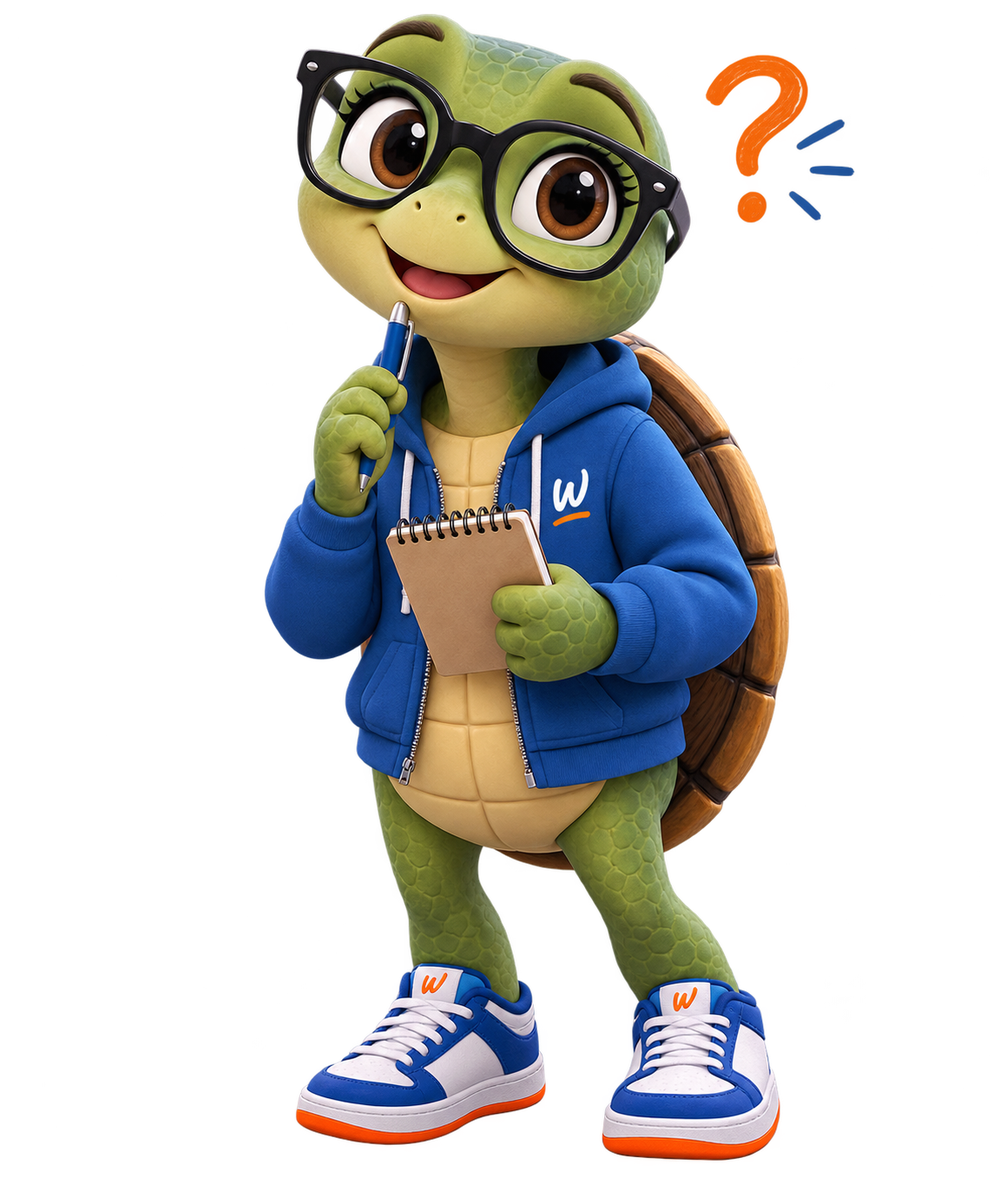
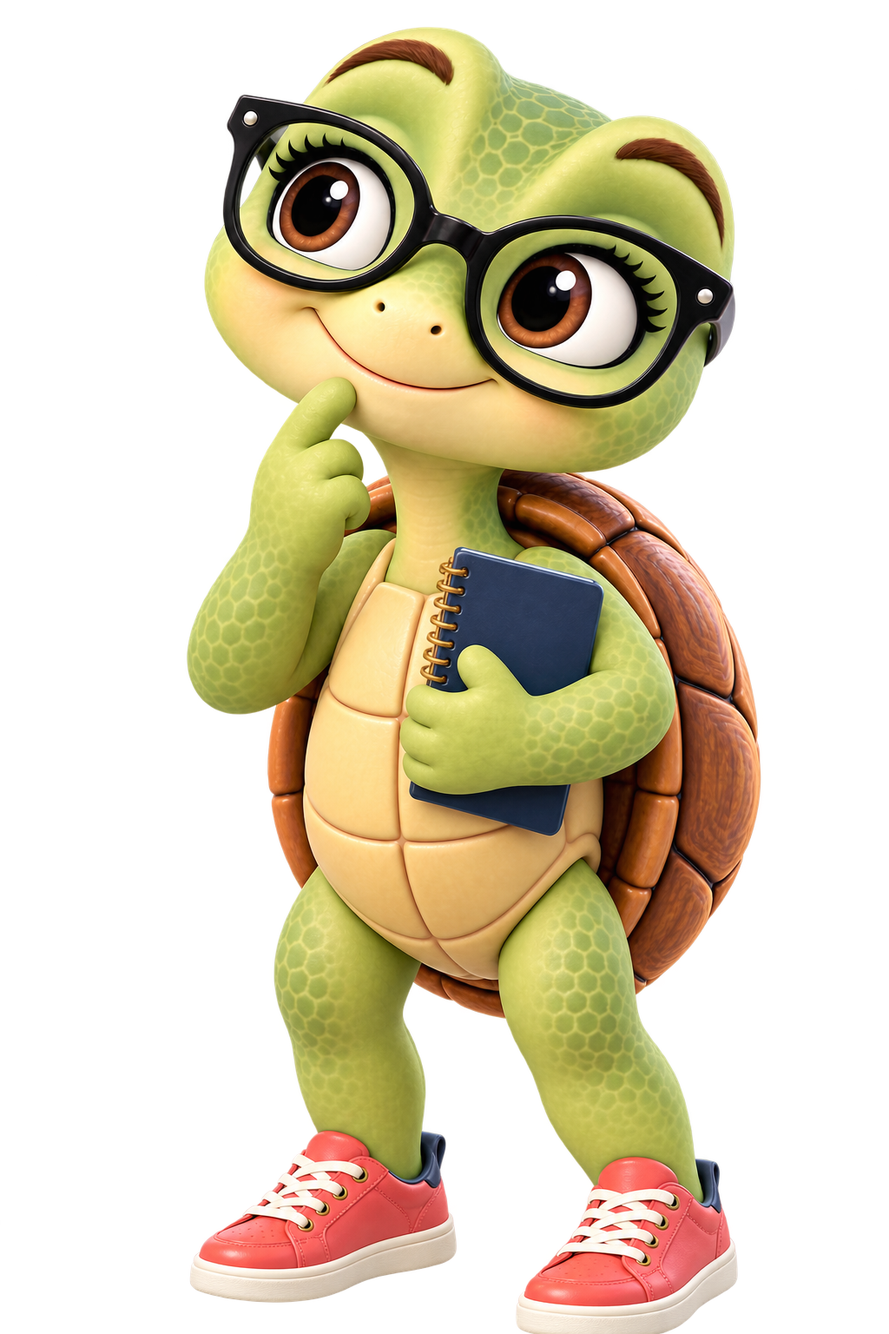
Finish canonical Betti Home composition

diff --git a/app/globals.css b/app/globals.css
@@ -264,10 +264,9 @@ body { background: var(--canvas); color: var(--ink); }
 .home-page { min-height: calc(100vh - 4rem); background:
   radial-gradient(circle at 92% 5%, rgba(156,224,200,.22), transparent 25rem),
   linear-gradient(180deg,#fffaf3 0,#fbfaf7 42rem,#f5f6f2 100%); color: var(--ink); }
-.home-shell { width: 100%; max-width: 80rem; margin-inline: auto; padding: 1.6rem 1rem 4.5rem; }
-.home-shell > header { margin: 0 0 1.35rem .25rem; }
+.home-shell { width: 100%; max-width: 80rem; margin-inline: auto; padding: 3.2rem 1rem 4.5rem; }
 .home-kicker { color: #176c54; font-size: .7rem; line-height: 1rem; font-weight: 750; letter-spacing: .14em; text-transform: uppercase; }
-.home-hero { position: relative; display: grid; overflow: hidden; border: 1px solid rgba(184,202,190,.72); border-radius: 1.75rem; background: rgba(255,255,255,.76); box-shadow: 0 28px 75px rgba(23,50,39,.1); }
+.home-hero { position: relative; z-index: 2; display: grid; overflow: visible; margin-bottom: 3rem; border: 1px solid rgba(184,202,190,.72); border-radius: 1.75rem; background: rgba(255,255,255,.82); box-shadow: 0 28px 75px rgba(23,50,39,.1); }
 .home-writeoff-story { position: relative; z-index: 2; padding: 1.6rem 1.35rem 1.45rem; }
 .home-writeoff-story h1 { margin-top: .65rem; }
 .home-writeoff-story h1 strong { display: block; background: linear-gradient(125deg,#1fac76 6%,#178368 46%,#243186 92%); background-clip: text; color: transparent; font-size: clamp(5rem,24vw,8rem); font-weight: 720; line-height: .8; letter-spacing: -.085em; font-variant-numeric: tabular-nums; }
@@ -282,14 +281,21 @@ body { background: var(--canvas); color: var(--ink); }
 .home-rhythm-bar { width: min(1.35rem,70%); min-height: .5rem; border-radius: 999px 999px .3rem .3rem; background: linear-gradient(180deg,#00b889,#188068); box-shadow: 0 5px 13px rgba(23,131,104,.17); }
 .home-rhythm-column:nth-last-child(-n+2) .home-rhythm-bar { background: linear-gradient(180deg,#5b69bb,#243186); }
 .home-rhythm-label { margin-top: .4rem; color: #68756e; font-size: .58rem; }
-.home-betti { position: relative; isolation: isolate; min-height: 25rem; overflow: hidden; background: linear-gradient(140deg,#e7f5e8 0%,#dff1e5 52%,#cce6d8 100%); }
+.home-betti { position: relative; isolation: isolate; min-height: 25rem; overflow: visible; border-radius: 0 0 1.7rem 1.7rem; background: linear-gradient(140deg,#e7f5e8 0%,#dff1e5 52%,#cce6d8 100%); }
 .home-betti::before { position: absolute; inset: 0; z-index: -1; content: ''; background: radial-gradient(circle at 88% 30%,rgba(255,255,255,.9),transparent 11rem),radial-gradient(circle at 15% 90%,rgba(36,49,134,.1),transparent 14rem); }
 .home-betti::after { position: absolute; right: -4rem; bottom: -5rem; z-index: -1; width: 16rem; height: 16rem; border-radius: 50%; background: rgba(255,255,255,.44); content: ''; }
 .home-betti-copy { position: relative; z-index: 3; margin: 1.4rem 1.25rem 0; max-width: 15.5rem; border-radius: 1.1rem 1.1rem .25rem 1.1rem; background: rgba(255,255,255,.88); padding: .9rem 1rem; box-shadow: 0 14px 34px rgba(29,74,56,.11); color: #34423a; font-size: .8rem; line-height: 1.5; backdrop-filter: blur(8px); }
 .home-betti-title { color: #15221d; font-size: 1rem; line-height: 1.3; font-weight: 720; letter-spacing: -.015em; }
-.home-betti-image { position: absolute; z-index: 1; right: -1.6rem; bottom: -2.8rem; width: min(18rem,72vw); height: auto; filter: drop-shadow(0 20px 22px rgba(24,58,44,.13)); }
-.home-betti-working .home-betti-image { right: -1rem; bottom: -1.5rem; width: min(19rem,76vw); }
-.home-betti-caught-up .home-betti-image { right: -1rem; bottom: -12rem; width: min(18rem,72vw); }
+.home-betti-image { position: absolute; z-index: 1; max-width: none; height: auto; filter: drop-shadow(0 20px 22px rgba(24,58,44,.15)); pointer-events: none; }
+.home-betti-question .home-betti-image { top: -1.5rem; right: -2.6rem; width: 17rem; }
+.home-betti-working .home-betti-image { top: -1.75rem; right: -3rem; width: 20rem; }
+.home-betti-caught-up .home-betti-image { top: -1.4rem; right: -3.5rem; width: 23rem; }
+.home-betti-work { position: absolute; z-index: 3; bottom: 5.7rem; left: 1rem; width: min(13rem,58%); background: linear-gradient(90deg,rgba(231,245,232,.95) 78%,rgba(231,245,232,0)); padding: .65rem 1.6rem .65rem 0; color: #34453c; }
+.home-betti-work > p { color: #176c54; font-size: .62rem; font-weight: 800; letter-spacing: .12em; text-transform: uppercase; }
+.home-betti-work dl { display: flex; flex-wrap: wrap; gap: .7rem 1rem; margin-top: .55rem; }
+.home-betti-work dl > div { min-width: 4.5rem; max-width: 6rem; }
+.home-betti-work dd { color: #17211d; font-size: 1.25rem; line-height: 1; font-weight: 760; letter-spacing: -.04em; font-variant-numeric: tabular-nums; }
+.home-betti-work dt { margin-top: .2rem; color: #526159; font-size: .58rem; line-height: 1.3; }
 .home-betti-actions { position: absolute; z-index: 4; right: 1rem; bottom: 1rem; left: 1rem; }
 .home-question-actions { border-radius: 1rem; background: rgba(255,255,255,.93); padding: .65rem; box-shadow: 0 14px 32px rgba(29,74,56,.12); backdrop-filter: blur(8px); }
 .home-question-actions .btn { flex: 1 1 8rem; }
@@ -298,7 +304,7 @@ body { background: var(--canvas); color: var(--ink); }
 .home-review { position: relative; margin-top: 1.35rem; overflow: hidden; border: 1px solid #cad9d0; border-radius: 1.5rem; background: #fffdf8; box-shadow: 0 18px 48px rgba(23,33,29,.07); }
 .home-review::before { position: absolute; inset: 0 auto 0 1.3rem; border-left: 1px solid rgba(218,113,92,.24); content: ''; }
 .home-review-heading { display: flex; flex-direction: column; gap: .7rem; border-bottom: 1px solid #dce3de; padding: 1.4rem 1.35rem 1.15rem 2.3rem; background: linear-gradient(90deg,#eff7f0,#fffdf8 70%); }
-.home-review-heading h2,.home-documentation h2,.home-recent-work h2,.home-financial h2,.home-records h2,.home-setup h2 { margin-top: .3rem; font-size: 1.45rem; line-height: 1.15; font-weight: 690; letter-spacing: -.035em; }
+.home-review-heading h2,.home-documentation h2,.home-financial h2,.home-records h2,.home-setup h2 { margin-top: .3rem; font-size: 1.45rem; line-height: 1.15; font-weight: 690; letter-spacing: -.035em; }
 .home-review-heading > p { color: #68756e; font-size: .75rem; font-weight: 650; }
 .home-review-sheet { padding: 0 1.35rem 0 2.3rem; }
 .home-review-totals { display: grid; grid-template-columns: repeat(2,minmax(0,1fr)); gap: 1rem; padding: 1.15rem 0; }
@@ -320,8 +326,8 @@ body { background: var(--canvas); color: var(--ink); }
 .home-review-actions .btn { flex: 1 1 9rem; }
 .home-review-done { display: flex; align-items: center; gap: 1rem; padding: 1.4rem; background: #edf8f3; }
 .home-review-done::before { display: none; }.home-review-done h2 { font-size: 1.2rem; font-weight: 700; }.home-review-done p { color: #59665f; font-size: .8rem; }.home-review-check { display: grid; width: 2.5rem; height: 2.5rem; place-items: center; border-radius: 50%; background: #178368; color: white; font-weight: 800; }
-.home-dashboard-row { display: grid; gap: 1.15rem; margin-top: 1.35rem; }
-.home-documentation,.home-recent-work,.home-financial { border: 1px solid rgba(196,211,201,.8); border-radius: 1.4rem; background: rgba(255,255,255,.82); padding: 1.3rem; box-shadow: 0 16px 42px rgba(23,33,29,.055); }
+.home-dashboard-row { margin-top: 1.35rem; }
+.home-documentation,.home-financial { border: 1px solid rgba(196,211,201,.8); border-radius: 1.4rem; background: rgba(255,255,255,.82); padding: 1.3rem; box-shadow: 0 16px 42px rgba(23,33,29,.055); }
 .home-section-heading { display: flex; align-items: end; justify-content: space-between; gap: 1rem; }
 .home-section-heading > a { flex: 0 0 auto; color: #243186; font-size: .72rem; font-weight: 700; }
 .home-document-strip { display: flex; height: .78rem; overflow: hidden; margin-top: 1.35rem; border-radius: 999px; background: #e1e5e2; }
@@ -329,9 +335,6 @@ body { background: var(--canvas); color: var(--ink); }
 .home-document-legend { display: grid; gap: .65rem; margin-top: 1.1rem; }
 .home-document-legend div { display: flex; align-items: center; justify-content: space-between; gap: 1rem; color: #536159; font-size: .72rem; }.home-document-legend dt { display: flex; align-items: center; gap: .45rem; }.home-document-legend i { width: .55rem; height: .55rem; border-radius: 50%; }.home-document-legend dd { color: #17211d; font-weight: 750; font-variant-numeric: tabular-nums; }
 .home-help-copy { margin-top: 1rem; color: #6a756f; font-size: .7rem; line-height: 1.5; }
-.home-recent-work { background: linear-gradient(145deg,#e6f3e8,#f4f8ef); }
-.home-recent-work ul { display: grid; gap: .8rem; margin-top: 1.25rem; }
-.home-recent-work li { display: flex; align-items: center; gap: .65rem; color: #3d4c44; font-size: .75rem; }.home-recent-work li span { display: grid; flex: 0 0 auto; width: 1.35rem; height: 1.35rem; place-items: center; border-radius: 50%; background: #178368; color: white; font-size: .68rem; }.home-recent-work li .home-work-dot { background: #f2a91d; }.home-recent-work li .home-work-question { background: #243186; }
 .home-financial { margin-top: 1.35rem; background: linear-gradient(135deg,#f1f8ed,#e5f2e7 62%,#eef1fa); }
 .home-financial-grid { display: grid; gap: 1.2rem; margin-top: 1.35rem; }
 .home-financial-metric span,.home-financial-expenses span { display: block; color: #536159; font-size: .7rem; font-weight: 650; }.home-financial-metric strong,.home-financial-expenses strong { display: block; margin-top: .25rem; color: #17211d; font-size: 1.55rem; font-weight: 730; letter-spacing: -.04em; font-variant-numeric: tabular-nums; }
@@ -344,13 +347,13 @@ body { background: var(--canvas); color: var(--ink); }
 .home-setup { display: flex; flex-direction: column; gap: 1rem; margin-top: 2rem; border-radius: 1.2rem; background: #eef0fa; padding: 1.25rem; }
 
 @media (min-width:640px) {
-  .home-shell { padding: 2rem 1.5rem 5.5rem; }
+  .home-shell { padding: 4rem 1.5rem 5.5rem; }
   .home-hero { grid-template-columns: minmax(0,1.12fr) minmax(19rem,.88fr); }
   .home-writeoff-story { padding: 2.5rem 2.25rem 1.8rem; }
   .home-writeoff-story h1 strong { font-size: clamp(7rem,15vw,10.25rem); }.home-writeoff-story h1 span { max-width: 24rem; font-size: clamp(2.2rem,5vw,3.5rem); }
-  .home-betti { min-height: 31rem; }.home-betti-copy { margin: 2rem 1.5rem 0; }.home-betti-image { right: -3.5rem; bottom: -4rem; width: 24rem; }.home-betti-working .home-betti-image { right: -3rem; bottom: -2rem; width: 25rem; }.home-betti-caught-up .home-betti-image { right: -2.5rem; bottom: -15rem; width: 23rem; }.home-betti-actions { right: 1.5rem; bottom: 1.5rem; left: 1.5rem; }
+  .home-betti { min-height: 31rem; border-radius: 0 1.7rem 1.7rem 0; }.home-betti-copy { margin: 2rem 1.5rem 0; }.home-betti-question .home-betti-image { top: -2.5rem; right: -2.7rem; width: 23rem; }.home-betti-working .home-betti-image { top: -2.7rem; right: -3.5rem; width: 30rem; }.home-betti-caught-up .home-betti-image { top: -2.4rem; right: -6rem; width: 37rem; }.home-betti-work { bottom: 6.5rem; left: 1.5rem; width: min(14.5rem,60%); }.home-betti-actions { right: 1.5rem; bottom: 1.5rem; left: 1.5rem; }
   .home-review-heading { flex-direction: row; align-items: end; justify-content: space-between; padding: 1.7rem 2rem 1.3rem 3rem; }.home-review-sheet { padding-inline: 3rem 2rem; }.home-review-totals { grid-template-columns: repeat(3,minmax(0,1fr)); }.home-review-totals div:last-child { grid-column: auto; }.home-review-footer { grid-template-columns: minmax(12rem,.7fr) minmax(20rem,1.3fr); align-items: center; padding: 1.35rem 2rem 1.4rem 3rem; }
-  .home-dashboard-row { grid-template-columns: 1.25fr .75fr; }.home-documentation,.home-recent-work,.home-financial { padding: 1.65rem; }
+  .home-documentation,.home-financial { padding: 1.65rem; }
   .home-document-legend { grid-template-columns: repeat(3,minmax(0,1fr)); }.home-document-legend div { display: grid; gap: .3rem; }.home-document-legend dd { padding-left: 1rem; font-size: .92rem; }
   .home-financial-grid { grid-template-columns: repeat(3,minmax(0,1fr)); }.home-financial-metric + .home-financial-metric { border-left: 1px solid rgba(96,127,109,.2); padding-left: 1.2rem; }
   .home-record-index { grid-template-columns: repeat(2,minmax(0,1fr)); }
@@ -361,7 +364,7 @@ body { background: var(--canvas); color: var(--ink); }
   .home-record-index { grid-template-columns: repeat(4,minmax(0,1fr)); }.home-record-link { grid-template-columns: 2.8rem minmax(0,1fr); min-height: 7.3rem; align-content: center; }.home-record-arrow { display: none; }.home-record-icon { width: 2.8rem; height: 2.8rem; }.home-record-link small { margin-top: .35rem; }
 }
 @media (max-width:374px) {
-  .home-shell { padding-inline: .65rem; }.home-writeoff-story { padding-inline: 1rem; }.home-writeoff-story h1 strong { font-size: 5.15rem; }.home-writeoff-story h1 span { font-size: 1.65rem; }.home-betti-copy { margin-inline: .85rem; }.home-betti-actions { right: .75rem; left: .75rem; }.home-review-heading,.home-review-sheet,.home-review-footer { padding-left: 1.7rem; padding-right: 1rem; }.home-documentation,.home-recent-work,.home-financial { padding: 1rem; }
+  .home-shell { padding-inline: .65rem; }.home-writeoff-story { padding-inline: 1rem; }.home-writeoff-story h1 strong { font-size: 5.15rem; }.home-writeoff-story h1 span { font-size: 1.65rem; }.home-betti-copy { margin-inline: .75rem; max-width: 11.5rem; }.home-betti-work { left: .75rem; width: 11.5rem; }.home-betti-actions { right: .75rem; left: .75rem; }.home-review-heading,.home-review-sheet,.home-review-footer { padding-left: 1.7rem; padding-right: 1rem; }.home-documentation,.home-financial { padding: 1rem; }
 }
 
 /* Home refinement: conversation, review, evidence, and records read as one page. */
@@ -370,7 +373,6 @@ body { background: var(--canvas); color: var(--ink); }
 .home-rhythm-months { display: flex; justify-content: space-between; margin-top: -.25rem; color: #68756e; font-size: .58rem; }
 .home-betti-copy { margin-top: 1.8rem; max-width: 14.5rem; border: 1px solid rgba(117,160,137,.25); border-radius: 1.2rem .45rem 1.2rem 1.2rem; background: rgba(255,255,255,.82); padding: 1rem 1.05rem 1rem 1.15rem; box-shadow: 0 18px 42px rgba(29,74,56,.09); }
 .home-betti-copy::after { position: absolute; top: 1.25rem; right: -.65rem; width: 1.25rem; height: 2px; border-radius: 999px; background: #178368; content: ''; transform: rotate(-18deg); transform-origin: left center; }
-.home-betti-question .home-betti-image { right: -2rem; bottom: -3.4rem; width: min(19rem,76vw); }
 .home-review-sheet { padding-top: 1.1rem; padding-bottom: .25rem; }
 .home-review-totals { margin-bottom: .35rem; border-bottom: 1px dashed #cbd8d0; padding-top: 0; padding-bottom: 1.2rem; }
 .home-review-items { display: grid; gap: .42rem; border: 0; }
@@ -393,16 +395,16 @@ body { background: var(--canvas); color: var(--ink); }
 .home-record-link:hover { transform: none; background: rgba(255,255,255,.55); box-shadow: none; }.home-record-icon { width: 2.35rem; height: 2.35rem; border-radius: 50%; background: transparent; border: 1px solid #bcd4c6; }.home-record-icon svg { width: 1.15rem; height: 1.15rem; }.home-record-arrow { display: block; }
 
 @media (min-width:640px) {
-  .home-betti-copy { margin: 2.25rem 0 0 1.5rem; }.home-betti-question .home-betti-image { right: -3.2rem; bottom: -4rem; width: 25rem; }
-  .home-document-states { grid-template-columns: 1fr 1fr; }.home-document-processing-state { grid-column: 1/-1; min-height: 5.5rem !important; }
+  .home-betti-copy { margin: 2.25rem 0 0 1.5rem; }
+  .home-document-states { grid-template-columns: 1fr 1fr; }.home-document-states:has(.home-document-processing-state) { grid-template-columns: repeat(3,minmax(0,1fr)); }
   .home-financial-flow { grid-template-columns: minmax(0,1fr) 1.7rem minmax(0,1fr) 1.7rem minmax(0,1.18fr); align-items: center; }.home-financial-operator { align-self: center; }
   .home-record-index { grid-template-columns: repeat(2,minmax(0,1fr)); }.home-record-link:nth-child(odd) { padding-right: 1rem; }.home-record-link:nth-child(even) { border-left: 1px solid #d9e0db; padding-left: 1rem; }
 }
 @media (min-width:1024px) {
-  .home-document-states { grid-template-columns: 1fr 1.35fr; }.home-document-processing-state { grid-column: 1/-1; }.home-record-index { grid-template-columns: repeat(4,minmax(0,1fr)); }.home-record-link { grid-template-columns: 2.35rem minmax(0,1fr) auto; min-height: 4.75rem; align-content: center; padding-inline: .8rem; }.home-record-link:nth-child(n) { border-left: 0; }.home-record-link:not(:nth-child(4n+1)) { border-left: 1px solid #d9e0db; }.home-record-arrow { display: block; }
+  .home-document-states { grid-template-columns: 1fr 1.35fr; }.home-document-states:has(.home-document-processing-state) { grid-template-columns: repeat(3,minmax(0,1fr)); }.home-record-index { grid-template-columns: repeat(4,minmax(0,1fr)); }.home-record-link { grid-template-columns: 2.35rem minmax(0,1fr) auto; min-height: 4.75rem; align-content: center; padding-inline: .8rem; }.home-record-link:nth-child(n) { border-left: 0; }.home-record-link:not(:nth-child(4n+1)) { border-left: 1px solid #d9e0db; }.home-record-arrow { display: block; }
 }
 @media (max-width:639px) {
-  .home-betti { min-height: 23.5rem; }.home-betti-copy { max-width: 13rem; }.home-betti-question .home-betti-image { right: -1.1rem; bottom: -1rem; width: 15rem; }.home-betti-actions { right: .8rem; bottom: .8rem; left: .8rem; }.home-question-actions { max-width: 100%; }.home-review-items a { grid-template-columns: 1.55rem minmax(0,1fr) auto; }
+  .home-betti { min-height: 25rem; }.home-betti-copy { max-width: 12.5rem; }.home-betti-actions { right: .8rem; bottom: .8rem; left: .8rem; }.home-question-actions { max-width: 100%; }.home-review-items a { grid-template-columns: 1.55rem minmax(0,1fr) auto; }
 }
 
 @media print {

diff --git a/app/home/page.tsx b/app/home/page.tsx
@@ -9,7 +9,6 @@ import { summarizeReceiptDocumentation } from '../lib/bookkeeping/receipt-workfl
 import { getCurrentCustomerWeeklyReview } from '../lib/bookkeeping/weekly-review'
 import { loadCustomerEntitlements } from '../lib/membership/entitlements'
 import { onboardingNeedsFollowUp, type OnboardingBusinessData } from '../lib/onboarding/progress'
-import { HomeGreeting } from './HomeGreeting'
 import { QuestionInvitation } from './QuestionInvitation'
 import { WeeklyReview } from './WeeklyReview'
 import { DocumentationStrip, FinancialRelationship, monthlyWriteoffRhythm, RecordIndex, WriteoffRhythm } from './HomeVisuals'
@@ -26,12 +25,6 @@ const recordAreas = [
   ['/reports', 'Reports', 'See the bigger picture', 'reports'],
 ] as const
 
-function firstName(metadata: Record<string, unknown>) {
-  const value = [metadata.first_name, metadata.full_name, metadata.name]
-    .find((item) => typeof item === 'string' && item.trim())
-  return typeof value === 'string' ? value.trim().split(/\s+/)[0].slice(0, 60) : null
-}
-
 export default async function HomePage() {
   const supabase = await createServerSupabase()
   const { data: { user } } = await supabase.auth.getUser()
@@ -45,17 +38,13 @@ export default async function HomePage() {
   const year = today.slice(0, 4)
   const businessResult = await supabase.from('businesses').select('business_description,business_profile_context,schedule_c_eligibility,business_stage,business_start_month,uses_customer_job_materials,keeps_future_sale_merchandise,prior_materials_handling,catch_up_start_date,onboarding_start_method,v1_support_status,onboarding_state,onboarding_version')
     .eq('owner_user_id', user.id).maybeSingle()
-  const [summary, potential, questions, receiptWorkflow, weeklyReview, cadenceResult] = await Promise.all([
+  const [summary, potential, questions, receiptWorkflow, weeklyReview] = await Promise.all([
     getAuthenticatedCanonicalReport({ supabase, periodStart: `${year}-01-01`, periodEnd: today, currency: 'USD' }),
     getAuthenticatedPotentialWriteoffs({ supabase, periodStart: `${year}-01-01`, periodEnd: today }),
     listCustomerQuestions({ supabase, scope: membership.plan! }),
     summarizeReceiptDocumentation(supabase),
     getCurrentCustomerWeeklyReview(supabase),
-    supabase.from('current_business_review_cadence').select('timezone_name').maybeSingle(),
   ])
-  if (cadenceResult.error || !cadenceResult.data?.timezone_name) {
-    throw new Error('Your business timezone could not be loaded safely.')
-  }
 
   const needsSetup = businessResult.data
     ? onboardingNeedsFollowUp(businessResult.data as OnboardingBusinessData) : true
@@ -69,8 +58,6 @@ export default async function HomePage() {
     ? 'question' : receiptWorkflow.processing > 0 ? 'working' : 'caught-up'
 
   return <main className="home-page"><div className="home-shell">
-    <HomeGreeting firstName={firstName(user.user_metadata ?? {})} timeZone={cadenceResult.data.timezone_name}/>
-
     <section className="home-hero" aria-labelledby="home-heading">
       <div className="home-writeoff-story">
         <p className="home-kicker">Your year with WriteOffs</p>
@@ -87,6 +74,14 @@ export default async function HomePage() {
               : <><p className="home-betti-title">You’re all caught up.</p><p>I’ve got the rest.</p></>}
         </div>
         <BettiIllustration state={bettiState} priority className="home-betti-image" sizes="(max-width: 639px) 12rem, 22rem" decorative/>
+        <aside className="home-betti-work" aria-label="What WriteOffs is handling">
+          <p>Already in hand</p>
+          <dl>
+            <div><dd>{potential.count}</dd><dt>potential writeoffs found</dt></div>
+            <div><dd>{documented}</dd><dt>receipts staying with expenses</dt></div>
+            {questions.length > 0 && <div><dd>{questions.length}</dd><dt>still need a fact from you</dt></div>}
+          </dl>
+        </aside>
         <div className="home-betti-actions">{questions.length > 0
           ? <QuestionInvitation count={questions.length} compact/>
           : <Link href="/transactions" className="home-inline-link">See what I’ve handled <span aria-hidden="true">→</span></Link>}</div>
@@ -95,20 +90,11 @@ export default async function HomePage() {
 
     {weeklyReview && <WeeklyReview review={weeklyReview}/>}
 
-    <section className="home-dashboard-row" aria-label="Documentation and recent work">
+    <section className="home-dashboard-row" aria-label="Documentation status">
       <div className="home-documentation">
         <div className="home-section-heading"><div><p className="home-kicker">Documentation</p><h2>Your receipts stay with your expenses.</h2></div><Link href="/receipts">See receipts <span aria-hidden="true">→</span></Link></div>
         <DocumentationStrip documented={documented} undocumented={undocumented} processing={receiptWorkflow.processing}/>
         <p className="home-help-copy">A missing receipt doesn’t automatically make an expense invalid.</p>
-      </div>
-      <div className="home-recent-work">
-        <p className="home-kicker">WriteOffs at work</p><h2>What I’m handling</h2>
-        <ul>
-          <li><span>✓</span><strong>{potential.count} potential writeoffs identified</strong></li>
-          <li><span>✓</span><strong>{documented} receipts connected to expenses</strong></li>
-          {receiptWorkflow.processing > 0 && <li><span className="home-work-dot">•</span><strong>{receiptWorkflow.processing} still being organized</strong></li>}
-          {questions.length > 0 && <li><span className="home-work-question">?</span><strong>{questions.length} waiting for a fact from you</strong></li>}
-        </ul>
       </div>
     </section>
 

diff --git a/app/page.tsx b/app/page.tsx
@@ -112,15 +112,10 @@ export default function Page() {
           </div>
           <div className="mt-11 grid gap-9 lg:grid-cols-3 lg:gap-0">
             {steps.map((step, index) => (
-              <article key={step.number} className={`relative ${index ? "lg:border-l lg:border-[#cfd8d2] lg:pl-10" : "lg:pr-10"} ${index === 1 ? "overflow-hidden rounded-[1.5rem] border-0 bg-[#e5f3e7] px-6 pb-0 pt-6 shadow-[0_20px_48px_rgba(23,83,62,.11)] lg:-my-7 lg:mx-6 lg:border-0 lg:px-8 lg:pb-0 lg:pt-8" : ""}`}>
+              <article key={step.number} className={`relative ${index ? "lg:border-l lg:border-[#cfd8d2] lg:pl-10" : "lg:pr-10"} ${index === 1 ? "rounded-[1.5rem] border-0 bg-[#e5f3e7] px-6 py-6 shadow-[0_20px_48px_rgba(23,83,62,.11)] lg:-my-7 lg:mx-6 lg:border-0 lg:px-8 lg:py-8" : ""}`}>
                 <span className="font-mono text-sm font-semibold text-[#178368]">{step.number}</span>
                 <h3 className="mt-5 text-2xl font-semibold tracking-[-0.03em]">{step.title}</h3>
                 <p className="mt-3 max-w-sm text-base leading-7 text-[#59665f]">{step.body}</p>
-                {index === 1 && <div className="relative mt-7 overflow-hidden rounded-xl border border-[#c4ddce] bg-white/60 p-4" aria-hidden="true">
-                  <div className="flex items-center gap-3"><span className="grid h-8 w-8 place-items-center rounded-full bg-[#178368] text-sm font-bold text-white">✓</span><span className="h-2 flex-1 rounded-full bg-[#bddfce]"/></div>
-                  <div className="mt-3 flex items-center gap-3"><span className="grid h-8 w-8 place-items-center rounded-full bg-[#243186] text-sm font-bold text-white">↗</span><span className="h-2 w-4/5 rounded-full bg-[#d7dcf1]"/></div>
-                  <div className="mt-3 flex items-center gap-3"><span className="grid h-8 w-8 place-items-center rounded-full bg-[#e8a528] text-sm font-bold text-white">▤</span><span className="h-2 w-3/5 rounded-full bg-[#eadfca]"/></div>
-                </div>}
               </article>
             ))}
           </div>
@@ -131,7 +126,7 @@ export default function Page() {
         <div className="mx-auto grid max-w-7xl overflow-hidden px-6 sm:px-10 lg:grid-cols-[0.72fr_1.28fr] lg:items-center lg:px-16">
           <div className="relative order-2 h-72 sm:h-80 lg:order-1 lg:h-[25rem]">
             <div className="absolute -bottom-32 left-1/2 h-96 w-96 -translate-x-1/2 rounded-full bg-[#8ce6cb]/15 blur-2xl" aria-hidden="true"/>
-            <BettiIllustration state="welcome" decorative sizes="(max-width: 1023px) 18rem, 24rem" className="absolute -bottom-40 left-1/2 w-[19rem] max-w-none -translate-x-1/2 drop-shadow-[0_24px_28px_rgba(0,0,0,.22)] sm:-bottom-48 sm:w-[23rem] lg:-bottom-52 lg:w-[26rem]"/>
+            <BettiIllustration state="welcome" decorative sizes="(max-width: 1023px) 18rem, 24rem" className="absolute -bottom-14 left-1/2 w-[18rem] max-w-none -translate-x-1/2 drop-shadow-[0_24px_28px_rgba(0,0,0,.22)] sm:-bottom-16 sm:w-[21rem] lg:-bottom-20 lg:w-[24rem]"/>
           </div>
           <div className="order-1 pt-14 sm:pt-16 lg:order-2 lg:py-20 lg:pl-12">
             <p className="text-sm font-semibold text-[#8ce6cb]">Meet Betti the Bookkeeper</p>

diff --git a/app/components/BettiIllustration.tsx b/app/components/BettiIllustration.tsx
@@ -23,6 +23,13 @@ const descriptions: Record<BettiState, string> = {
   welcome: 'Betti the Bookkeeper welcoming a customer to WriteOffs',
 }
 
+const dimensions: Record<BettiState, { width: number; height: number }> = {
+  working: { width: 1230, height: 1278 },
+  question: { width: 1024, height: 1536 },
+  'caught-up': { width: 1536, height: 1024 },
+  welcome: { width: 1237, height: 1272 },
+}
+
 /**
  * The only application contract for approved Betti artwork. Betti remains
  * separate from BrandLogo and is never used as a WriteOffs brand lockup.
@@ -45,8 +52,8 @@ export function BettiIllustration({
     <Image
       src={assets[state]}
       alt={decorative ? '' : descriptions[state]}
-      width={state === 'question' ? 1159 : state === 'working' ? 1312 : 1024}
-      height={state === 'question' ? 1357 : state === 'working' ? 1199 : 1536}
+      width={dimensions[state].width}
+      height={dimensions[state].height}
       sizes={sizes}
       priority={priority}
       className={className}

diff --git a/tests/design/betti-assets.test.ts b/tests/design/betti-assets.test.ts
@@ -24,4 +24,16 @@ describe('Betti illustration contract', () => {
     expect(source).toContain("alt={decorative ? '' : descriptions[state]}")
     expect(source).toContain('sizes={sizes}')
   })
+
+  it('uses the canonical natural Betti dimensions and never renders the historical mockup', () => {
+    for (const dimensions of [
+      'working: { width: 1230, height: 1278 }',
+      'question: { width: 1024, height: 1536 }',
+      "'caught-up': { width: 1536, height: 1024 }",
+      'welcome: { width: 1237, height: 1272 }',
+    ]) expect(source).toContain(dimensions)
+    expect(source).not.toContain('.webp')
+    expect(contract).toContain('no clothing')
+    expect(contract).toContain('not a production asset')
+  })
 })

diff --git a/tests/home/home-v2.test.ts b/tests/home/home-v2.test.ts
@@ -39,4 +39,13 @@ describe('bookkeeper-centered Home',()=>{
   expect(header).toContain('aria-label="Your records"')
   expect(header).not.toContain('aria-label="Primary"')
  })
+ it('keeps Betti work in the hero without a greeting or duplicate work card',()=>{
+  expect(home).toContain('className="home-betti-work"')
+  expect(home).toContain('potential writeoffs found')
+  expect(home).toContain('receipts staying with expenses')
+  expect(home).toContain('still need a fact from you')
+  expect(home).not.toContain('HomeGreeting')
+  expect(home).not.toContain('current_business_review_cadence')
+  expect(home).not.toContain('className="home-recent-work"')
+ })
 })

diff --git a/tests/public/landing-page.test.ts b/tests/public/landing-page.test.ts
@@ -40,4 +40,11 @@ describe('public landing page', () => {
     expect(header).toContain('href="/#for-you"')
     expect(header).not.toContain('href="/#faq"')
   })
+
+  it('introduces canonical Betti once and keeps How It Works mascot-free', () => {
+    expect(page.match(/<BettiIllustration/g)).toHaveLength(1)
+    expect(page).toContain('state="welcome"')
+    expect(page).toContain('Meet Betti the Bookkeeper')
+    expect(page).not.toContain('grid h-8 w-8 place-items-center')
+  })
 })

diff --git a/public/betti/README.md b/public/betti/README.md
@@ -12,8 +12,14 @@ The application uses these approved transparent PNG illustrations:
 - `betti-welcome.png`
 
 Keep Betti separate from the WriteOffs logo. Do not redraw, recolor, or
-construct new poses in application code. Working and Question are transparent
-cutouts; Caught Up and Welcome include an approved translucent atmospheric glow.
+construct new poses in application code. Canonical Betti is a natural green
+turtle with a brown shell, brown eyes, thick black glasses, subtle feminine
+features, and polished coral leather sneakers. She wears no clothing and no
+logo or standalone W mark. All four production files are transparent PNGs;
+approved atmospheric shading within an illustration is part of the artwork.
+
+The historical ` betti-working.webp` mockup may remain as a design reference,
+but it is not a production asset and must never be rendered by the application.
 
 The application renders these files only through
 `app/components/BettiIllustration.tsx`.
